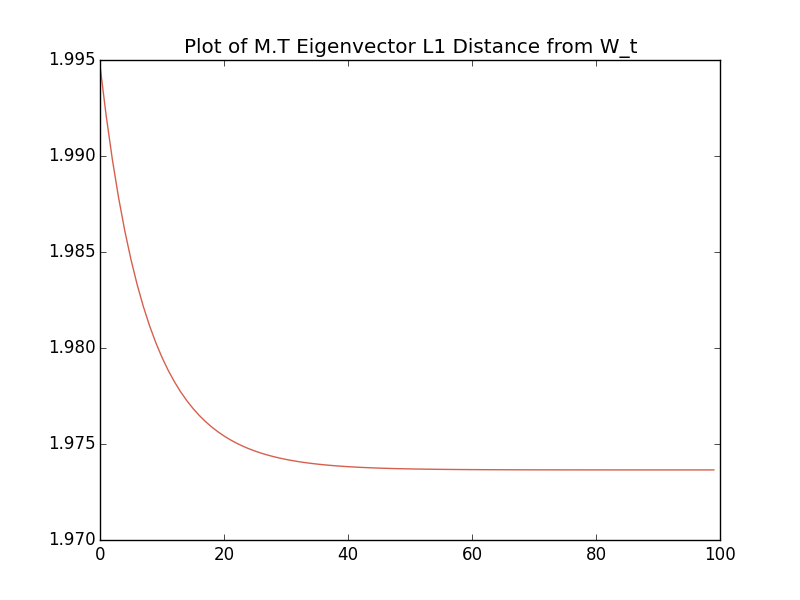
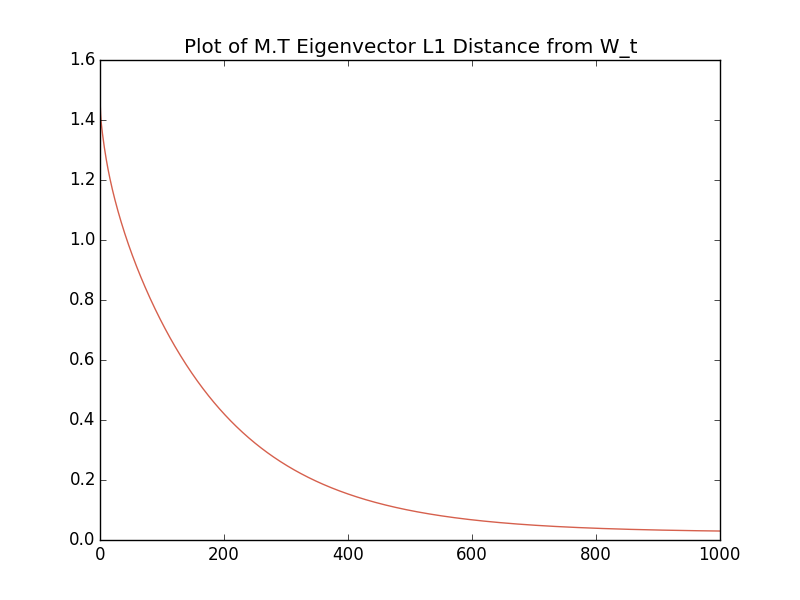
prob 1 done

diff --git a/hw5.py b/hw5.py
@@ -8,98 +8,214 @@ from sklearn.cluster import KMeans
 from numpy import linalg as LA
 
 
-def get_data():
-    """ fetches data from file into a pandas dataframe which will then
-        be converted into a numpy matrix
-    """
+class Problem1:
 
-    trainpath = sys.argv[1]
-    legendpath = sys.argv[2]
+    def __init__(self):
+        pass
 
-    traindata = p.read_csv(trainpath, names=["t1idx", "t1score", "t2idx", "t2score"])
+    def get_data(self):
+        """ fetches data from file into a pandas dataframe which will then
+            be converted into a numpy matrix
+        """
 
-    teams = np.array(np.unique(traindata.t1idx))
-    team_names = p.read_csv(legendpath, names=["team_name"])
-    team_names = np.array(team_names.values).reshape((teams.shape[0],))
+        trainpath = sys.argv[1]
+        legendpath = sys.argv[2]
 
-    return traindata.values, teams.tolist(), team_names
+        traindata = p.read_csv(trainpath, names=["t1idx", "t1score", "t2idx", "t2score"])
+
+        teams = np.array(np.unique(traindata.t1idx))
+        team_names = p.read_csv(legendpath, names=["team_name"])
+        team_names = np.array(team_names.values).reshape((teams.shape[0],))
+
+        return traindata.values, teams.tolist(), team_names
+
+    def transition_matrix(self, iteration=10):
+        size = 759
+        pj1 = 1
+        pj2 = 3
+
+        rankings = []
+
+        wt_eig_norm = []
+
+        colors = ['#b2182b',
+                  '#d6604d',
+                  '#f4a582',
+                  '#fddbc7',
+                  '#d1e5f0',
+                  '#92c5de',
+                  '#4393c3',
+                  '#2166ac']
+
+        wt = np.matrix(np.repeat(1.0 / size, size).reshape((1, size)))
+        # wt = np.matrix(np.random.uniform(0, 1, size).reshape((1, size)))
+
+        game_data, teams, team_names = self.get_data()
+
+        M = np.matrix(np.zeros((size, size)))
+
+        for row in range(game_data.shape[0]):
+
+            try:
+                j1 = teams.index(game_data[row, 0])
+                j2 = teams.index(game_data[row, 2])
+
+            except IndexError:
+                print "Index Error "
+                break
+
+            if game_data[row, pj1] > game_data[row, pj2]:
+
+                M[j1, j1] += 1 + (float(game_data[row, pj1]) / (game_data[row, pj1] + game_data[row, pj2]))
+
+                M[j2, j2] += (float(game_data[row, pj2]) / (game_data[row, pj1] + game_data[row, pj2]))
+
+                M[j1, j2] += (float(game_data[row, pj2]) / (game_data[row, pj1] + game_data[row, pj2]))
+
+                M[j2, j1] += 1 + (float(game_data[row, pj1]) / (game_data[row, pj1] + game_data[row, pj2]))
 
 
-def transition_matrix(iteration=10):
-    size = 759
-    pj1 = 1
-    pj2 = 3
+            else:   # game_data[row, pj2] > game_data[row, pj1]:
 
-    rankings = []
+                M[j1, j1] += (float(game_data[row, pj1]) / (game_data[row, pj1] + game_data[row, pj2]))
 
-    wt_eig_norm = []
+                M[j2, j2] += 1 + (float(game_data[row, pj2]) / (game_data[row, pj1] + game_data[row, pj2]))
 
-    colors = ['#b2182b',
-              '#d6604d',
-              '#f4a582',
-              '#fddbc7',
-              '#d1e5f0',
-              '#92c5de',
-              '#4393c3',
-              '#2166ac']
+                M[j1, j2] += 1 + (float(game_data[row, pj2]) / (game_data[row, pj1] + game_data[row, pj2]))
 
-    wt = np.matrix(np.repeat(1.0 / size, size).reshape((1, size)))
+                M[j2, j1] += (float(game_data[row, pj1]) / (game_data[row, pj1] + game_data[row, pj2]))
 
-    game_data, teams, team_names = get_data()
+        # Normalizing the Matrix rows
+        for mr in range(M.shape[0]):
+            M[mr] /= np.sum(M[mr])
 
-    M = np.matrix(np.zeros((size, size)))
+        eigvalue, eigvec = LA.eig(M.T)
+        first_eigvec = eigvec[:, np.argmax(eigvalue)]
 
-    iteration = 100
+        for row in range(iteration):
 
-    for row in range(game_data.shape[0]):
+            rankings = sorted(range(size), key=np.array(wt).reshape(size, ).tolist().__getitem__, reverse=True)
 
-        try:
-            j1 = teams.index(game_data[row, 0])
-            j2 = teams.index(game_data[row, 2])
+            l1_err = LA.norm(wt.T - (first_eigvec / np.sum(first_eigvec)), ord=1)
+            wt_eig_norm += [l1_err]
 
-        except IndexError:
-            print "Index Error "
-            break
+            wt *= M
+            # print team_names[rankings[0:10]]
 
-        if game_data[row, pj1] > game_data[row, pj2]:
+        plt.plot(range(iteration), wt_eig_norm, c=colors[1])
+        plt.title("Plot of M.T Eigenvector L1 Distance from W_t")
+        plt.savefig("./out/hw5/eig_wt_err.png")
+        plt.close()
 
-            M[j1, j1] += (1 + float(game_data[row, pj1]) / (game_data[row, pj1] + game_data[row, pj2]))
+        for i in range(20):
+            print i, ' ', team_names[rankings[i]], ' - ',
+            print np.array(wt.T[rankings[i]])[0][0]
 
-            M[j2, j1] += (1 + float(game_data[row, pj1]) / (game_data[row, pj1] + game_data[row, pj2]))
+        return rankings, wt, team_names[rankings]
 
-        elif game_data[row, pj2] > game_data[row, pj1]:
 
-            M[j2, j2] += (1 + float(game_data[row, pj2]) / (game_data[row, pj1] + game_data[row, pj2]))
+class Problem2:
 
-            M[j1, j2] += (1 + float(game_data[row, pj2]) / (game_data[row, pj1] + game_data[row, pj2]))
+    def __init__(self):
+        pass
 
-    # Normalizing the Matrix rows
-    for mr in range(M.shape[0]):
-        M[mr] /= np.sum(M[mr])
+    def get_data(self):
 
-    eigvalue, eigvec = LA.eig(M.T)
+        """ fetches data from file into a pandas dataframe which will then
+            be converted into a numpy matrix
+        """
 
-    for row in range(iteration):
+        file_path = sys.argv[3]
 
-        wt *= M
+        faces = p.read_csv(file_path, header=None)
 
-        rankings = sorted(range(size), key=np.array(wt).reshape(size, ).tolist().__getitem__, reverse=True)
+        faces_m = faces.values
 
-        l1_err = LA.norm(wt.T - (eigvec[:, 0] / np.sum(eigvec[:, 0])), ord=1)
-        wt_eig_norm += [l1_err]
+        return faces_m
 
-        # print team_names[rankings]
+    def nmf(self, iteration=20):
 
-    plt.plot(range(iteration), wt_eig_norm, c=colors[1])
-    plt.title("Plot of M.T Eigenvector L1 Distance from W_t")
-    plt.savefig("./out/hw5/eig_wt_err.png")
-    plt.close()
+        K = 25
 
-    return rankings, wt, team_names[rankings]
+        penality = []
+
+        # X is the data matrix and W an H are th factorizations of X. X ~= W*H
+        X = self.get_data()
+
+        n, m = X.shape
+
+        W = np.random.uniform(0, 1, n * K).reshape((n, K))
+        H = np.random.uniform(0, 1, K * m).reshape((K, m))
+
+        for iterate in range(iteration):
+
+            # Updating H
+            h_num = H * np.dot(W.T, X)
+            h_den = np.dot(np.dot(W.T, W), H)
+
+            H = h_num / h_den
+
+            # Updating W
+            w_num = W * np.dot(X, H.T)
+            w_den = np.dot(np.dot(W, H), H.T)
+
+            W = w_num / w_den
+
+            # Calculating penalty per iteration and adding to list
+            WH = np.dot(W, H)
+            penality += [np.sum((X - WH) ** 2)]
+
+        plt.plot(range(iteration), penality, c='g')
+        plt.title("Plot of Objective as a Function of Iteration")
+        plt.savefig("./out/hw5/nmf_euclidean_obj_plot.png")
+        plt.close()
+
+
+class Problem2P2:
+
+    def get_data(self):
+
+        docs_path = sys.argv[4]
+        vocab_path = sys.argv[5]
+
+        with open(docs_path, 'r') as doc_file:
+            doc_freq = doc_file.readlines()
+
+        vocab = p.read_csv(vocab_path, header=None)
+
+        return doc_freq, vocab
+
+    def nmf_divergence(self, iteration=20):
+
+        doc_freq, vocab = self.get_data()
+
+        rank = 25
+        m = len(doc_freq)
+        n = vocab.shape[0]
+
+        div_penalties = []
+
+        X = np.zeros((n, m))
+        W = np.random.uniform(0, 1, n * rank).reshape((n, rank))
+        H = np.random.uniform(0, 1, rank * m).reshape((rank, m))
+
+        # Constructing the data matrix X line by line, word by word
+        for didx, line in enumerate(doc_freq):
+            words_and_counts = line.split(',')
+
+            for item in words_and_counts:
+                widx, count = tuple(item.split(':'))
+                X[widx, didx] = count
+
+
+
 
 if __name__ == '__main__':
-    transition_matrix()
+    p1 = Problem1()
+    p1.transition_matrix(1000)
 
+    # p2 = Problem2()
+    # p2.nmf(200)
 
 
 
